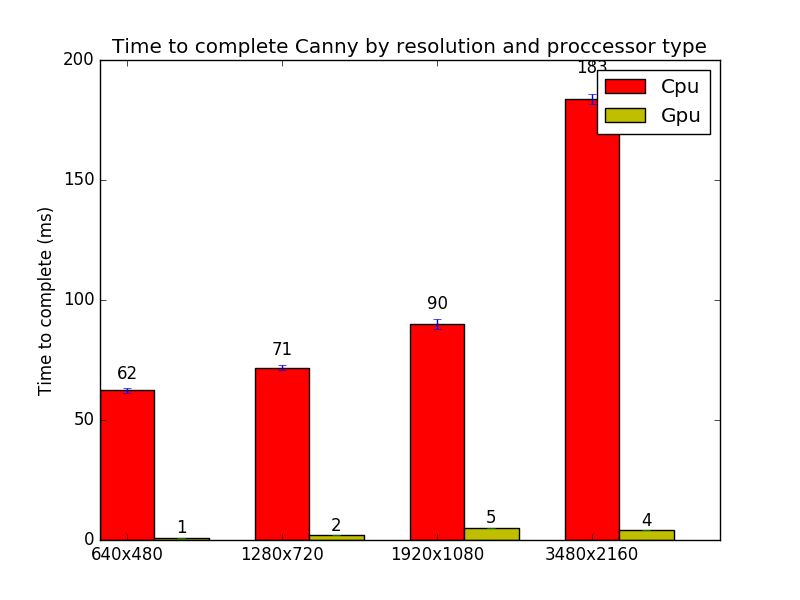
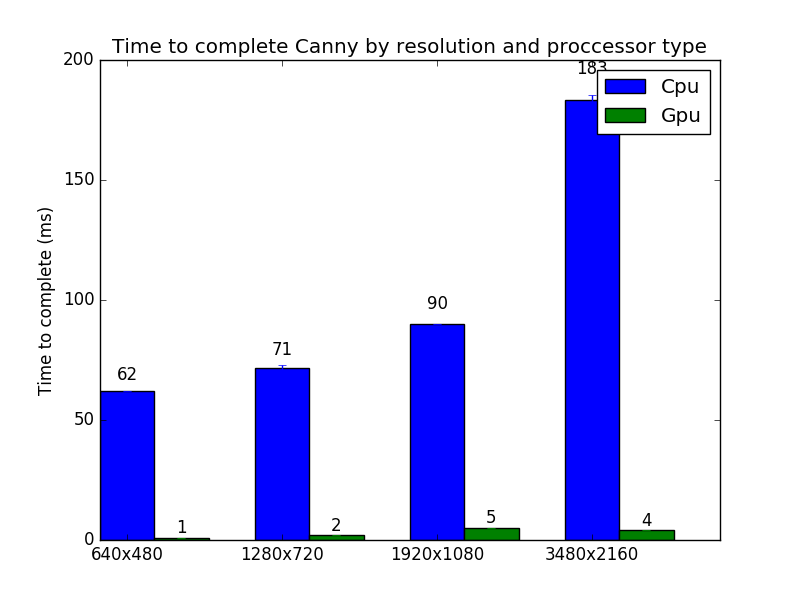
Generating report and test report included.

diff --git a/Algorithms/plot_data.py b/Algorithms/plot_data.py
@@ -95,9 +95,9 @@ for algorithm in algorithmList:
     width = 0.35       # the width of the bars
 
     fig, ax = plt.subplots()
-    rects1 = ax.bar(ind, cpu_means, width, color='r', yerr=cpu_std)
+    cpurect = ax.bar(ind, cpu_means, width, color='b', yerr=cpu_std)
 
-    rects2 = ax.bar(ind + width, gpu_means, width, color='y', yerr=gpu_std)
+    gpurect = ax.bar(ind + width, gpu_means, width, color='g', yerr=gpu_std)
 
     # add some text for labels, title and axes ticks
     ax.set_ylabel('Time to complete (ms)')
@@ -105,14 +105,26 @@ for algorithm in algorithmList:
     ax.set_xticks(ind + width / 2)
     ax.set_xticklabels(('640x480', '1280x720', '1920x1080', '3480x2160'))
 
-    ax.legend((rects1[0], rects2[0]), ('Cpu', 'Gpu'))
+    ax.legend((cpurect[0], gpurect[0]), ('Cpu', 'Gpu'))
 
-    autolabel(rects1)
-    autolabel(rects2)
+    autolabel(cpurect)
+    autolabel(gpurect)
 
-    plt.savefig(('reports/graphs/'+algorithm+'.png'))      
+    plt.savefig(('reports/graphs/'+algorithm+'.png')) 
+
+print("Creating Report\n")
+
+report = open("reports/report1.md","w")
+
+report.write('#Report on the performance of algorithms\n')  
+report.write('##Test conditions\n')   
+report.write('##Algorithm results\n')
+for algorithm in algorithmList:
+    report.write(('##'+algorithm+'\n'))
+    report.write('![alt text](https://github.com/JoshuaSmith94/openclBenchmarking/raw/master/Algorithms/reports/graphs/'+algorithm+'.png"'+algorithm+'")\n')
+
             
-
+report.close
 
 
 

diff --git a/Algorithms/reports/report1.md b/Algorithms/reports/report1.md
@@ -1,0 +1,11 @@
+#Report on the performance of algorithms
+##Test conditions
+##Algorithm results
+##absdiff
+![alt text](https://github.com/JoshuaSmith94/openclBenchmarking/raw/master/Algorithms/reports/graphs/absdiff.png"absdiff")
+##add
+![alt text](https://github.com/JoshuaSmith94/openclBenchmarking/raw/master/Algorithms/reports/graphs/add.png"add")
+##bitwise_and
+![alt text](https://github.com/JoshuaSmith94/openclBenchmarking/raw/master/Algorithms/reports/graphs/bitwise_and.png"bitwise_and")
+##Canny
+![alt text](https://github.com/JoshuaSmith94/openclBenchmarking/raw/master/Algorithms/reports/graphs/Canny.png"Canny")
